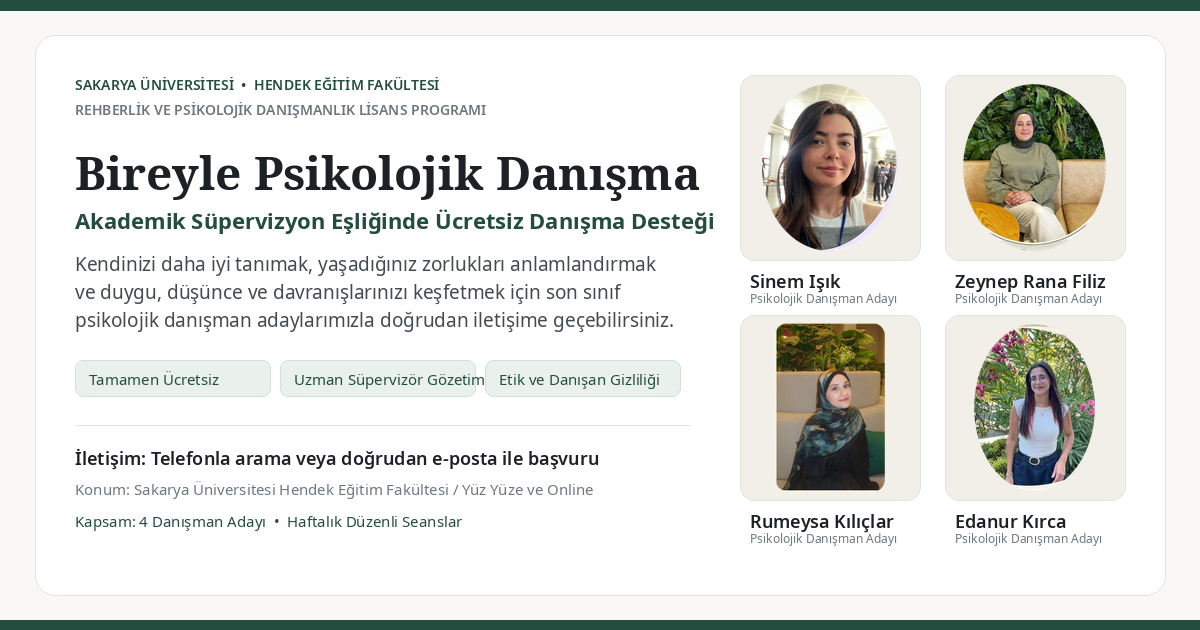
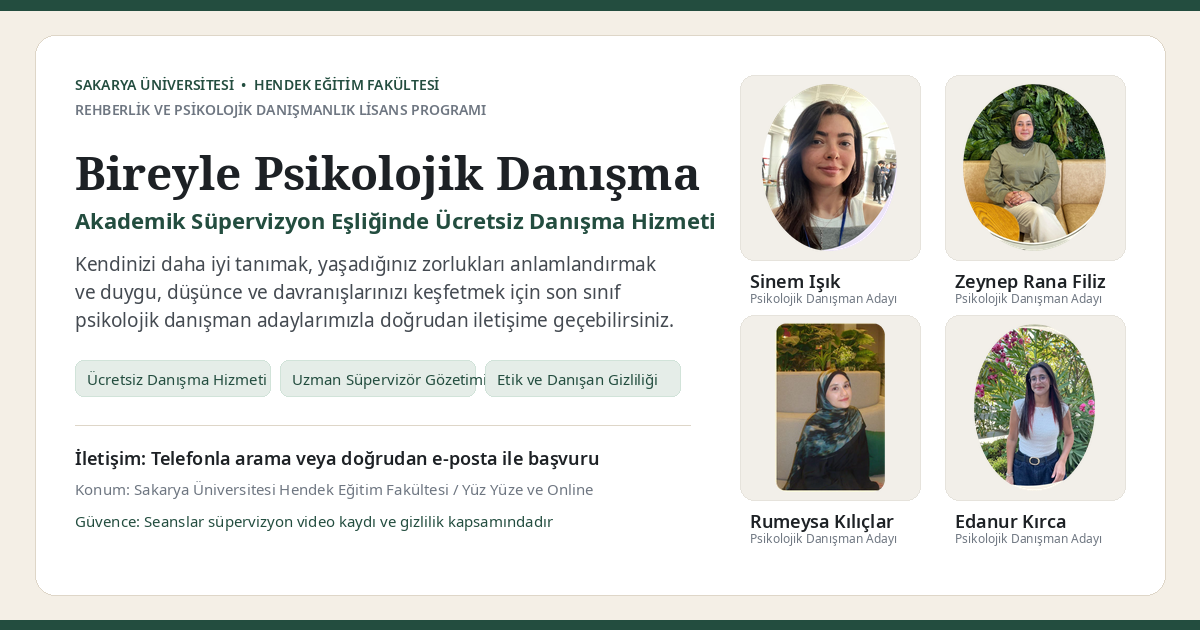
disclosure update

diff --git a/script.js b/script.js
@@ -12,7 +12,7 @@ const DEFAULT_PROFILES = [
     title: "Psikolojik Danışman Adayı",
     supervisor: "Prof. Dr. Eyüp Çelik",
     service: "Bireyle Psikolojik Danışma",
-    format: "Ücretsiz danışma desteği",
+    format: "Ücretsiz danışma hizmeti",
     description: "Kendinizi daha iyi tanımak, yaşadığınız zorlukları anlamlandırmak ve duygu, düşünce ve davranışlarınızı keşfetmek için Bireyle Psikolojik Danışma dersim kapsamında Prof. Dr. Eyüp Çelik süpervizörlüğünde vermiş olduğum ÜCRETSİZ danışma desteğinden yararlanabilirsiniz.",
     phone: "0545 350 29 60",
     email: "sinem.isik2@ogr.sakarya.edu.tr",
@@ -24,7 +24,7 @@ const DEFAULT_PROFILES = [
     title: "Psikolojik Danışman Adayı",
     supervisor: "Prof. Dr. Eyüp Çelik",
     service: "Bireyle Psikolojik Danışma",
-    format: "Ücretsiz danışma desteği",
+    format: "Ücretsiz danışma hizmeti",
     description: "Kendinizi daha iyi tanımak, yaşadığınız zorlukları anlamlandırmak ve duygu, düşünce ve davranışlarınızı farketmek için Bireyle Psikolojik Danışma dersim kapsamında Prof. Dr. Eyüp ÇELİK süpervizörlüğünde ücretsiz danışma desteği vermekteyim.",
     phone: "0551 184 67 15",
     email: "rana.filiz@ogr.sakarya.edu.tr",
@@ -36,7 +36,7 @@ const DEFAULT_PROFILES = [
     title: "Psikolojik Danışman Adayı",
     supervisor: "Doç. Dr. Betül Düşünceli",
     service: "Bireyle Psikolojik Danışma",
-    format: "Ücretsiz, yüz yüze veya online danışma desteği",
+    format: "Ücretsiz danışma hizmeti",
     description: "Bireyle Psikolojik Danışma dersi kapsamında Doç. Dr. Betül Düşünceli süpervizörlüğünde ücretsiz yüz yüze veya online psikolojik danışma hizmeti vermekteyim.",
     phone: "0551 037 27 77",
     email: "rumeysa.kiliclar@ogr.sakarya.edu.tr",
@@ -48,7 +48,7 @@ const DEFAULT_PROFILES = [
     title: "Psikolojik Danışman Adayı",
     supervisor: "Arş. Gör. Dr. Eda Biçener",
     service: "Bireyle Psikolojik Danışma",
-    format: "Ücretsiz, yüz yüze, ortalama 7 seans danışma desteği",
+    format: "Ücretsiz danışma hizmeti",
     description: "Sakarya Üniversitesi Rehberlik ve Psikolojik Danışmanlık lisans programı Bireyle Psikolojik Danışma dersi kapsamında Arş. Gör. Dr. Eda Biçener süpervizörlüğünde ücretsiz, yüz yüze, ortalama 7 seans psikolojik danışma hizmeti vermekteyim.",
     phone: "0543 787 2063",
     email: "edanur.kirca@ogr.sakarya.edu.tr",

diff --git a/style.css b/style.css
@@ -5,24 +5,24 @@
    ========================================================================== */
 
 :root {
-  /* Renk Paleti - Doğal, Dengeli, Güven Verici */
-  --bg-app: #f9f8f6;
-  --bg-card: #ffffff;
-  --bg-subtle: #f3f1ec;
-  --bg-hover: #ece9e1;
-  --bg-photo: #ece9e2;
+  /* Renk Paleti - Sıcak Doğal Bej & Keten Zemin */
+  --bg-app: #f4efe6;          /* Belirgin, sakin, sıcak doğal bej */
+  --bg-card: #ffffff;         /* Saf beyaz kartlar (bej zemin üzerinde net ve ferah) */
+  --bg-subtle: #eae3d6;       /* Kart içi hafif bej alanlar */
+  --bg-hover: #e0d8ca;
+  --bg-photo: #e9e2d5;        /* Fotoğraf kabini bej zemin */
   
-  --text-main: #1d2125;
-  --text-body: #444a51;
-  --text-muted: #6e7681;
-  --text-light: #8d95a0;
+  --text-main: #191c1f;
+  --text-body: #3c4249;
+  --text-muted: #646b75;
+  --text-light: #88909c;
   
-  --border-subtle: #e6e3dc;
-  --border-medium: #d4d0c7;
+  --border-subtle: #ded6c8;
+  --border-medium: #c7beae;
   
   --accent: #234d3f;          /* Sakin orman / adaçayı yeşili */
   --accent-hover: #19382d;
-  --accent-surface: #eaf1ed;
+  --accent-surface: #e5ede8;
   
   --radius-sm: 6px;
   --radius-md: 10px;
@@ -89,7 +89,7 @@ body {
   padding-top: 3.5rem;
   padding-bottom: 2.5rem;
   border-bottom: 1px solid var(--border-subtle);
-  background-color: #ffffff;
+  background-color: var(--bg-app);
 }
 
 .institution-meta {
@@ -538,7 +538,7 @@ body {
 
 .info-columns {
   display: grid;
-  grid-template-columns: repeat(3, 1fr);
+  grid-template-columns: repeat(2, 1fr);
   gap: 1.5rem;
 }
 
@@ -622,7 +622,7 @@ body {
 /* Alt Bilgi / Footer */
 .footer {
   border-top: 1px solid var(--border-subtle);
-  background-color: #ffffff;
+  background-color: var(--bg-app);
   padding-top: 2.5rem;
   padding-bottom: 2.5rem;
 }

diff --git a/index.html b/index.html
@@ -94,7 +94,7 @@
             </svg>
             <div>
               <strong>Etik ve Danışan Gizliliği</strong>
-              <p>Tüm paylaşımlar mesleki etik ve gizlilik ilkeleri çerçevesinde korunur.</p>
+              <p>Görüşmeler video kaydına alınacaktır; bu kayıtlar danışman ve süpervizör hariç kimseye gösterilmeyecektir.</p>
             </div>
           </div>
         </div>
@@ -167,6 +167,16 @@
                 </div>
                 <p>
                   Kişisel farkındalık kazanmak, yaşamındaki karar alma süreçlerini netleştirmek, ilişki veya uyum problemleriyle başa çıkmak isteyen yetişkin bireyler bu hizmetten faydalanabilir. Ağır psikiyatrik tanısı veya acil krize müdahale ihtiyacı olan durumlarda ilgili sağlık kurumlarına yönlendirme yapılmaktadır.
+                </p>
+              </div>
+
+              <div class="info-col">
+                <div class="info-col-header">
+                  <span class="info-num">04</span>
+                  <h4>Görüşme Kayıtları ve Gizlilik</h4>
+                </div>
+                <p>
+                  Görüşmeler video kaydına alınacaktır. Bu kayıtlar danışman ve süpervizör hariç kimseye gösterilmeyecektir. Seanslar, süpervizyon dersinin bilimsel gereklilikleri doğrultusunda ve mesleki etik gizlilik güvencesiyle korunur.
                 </p>
               </div>
             </div>

diff --git a/generate_assets.py b/generate_assets.py
@@ -72,7 +72,7 @@ generate_png_favicon(192, "favicon.png")
 # ==============================================================================
 def generate_og_image():
     W, H = 1200, 630
-    og = Image.new("RGB", (W, H), "#f9f8f6")
+    og = Image.new("RGB", (W, H), "#f4efe6")
     draw = ImageDraw.Draw(og)
     
     # Üst ve Alt Şık Çerçeve Çizgisi
@@ -80,7 +80,7 @@ def generate_og_image():
     draw.rectangle([0, H - 10, W, H], fill="#234d3f")
     
     # İç Kart Çerçevesi
-    draw.rounded_rectangle([35, 35, W - 35, H - 35], radius=20, fill="#ffffff", outline="#e6e3dc", width=1)
+    draw.rounded_rectangle([35, 35, W - 35, H - 35], radius=20, fill="#ffffff", outline="#ded6c8", width=1)
     
     # Yazı Tipleri (Noto Sans & Noto Serif - Tam Türkçe desteği)
     font_serif_bold = ImageFont.truetype("/usr/share/fonts/google-noto/NotoSerif-Bold.ttf", 46)
@@ -98,7 +98,7 @@ def generate_og_image():
     draw.text((75, 140), "Bireyle Psikolojik Danışma", fill="#1d2125", font=font_serif_bold)
     
     # 3. Alt Başlık
-    draw.text((75, 205), "Akademik Süpervizyon Eşliğinde Ücretsiz Danışma Desteği", fill="#234d3f", font=font_sans_bold)
+    draw.text((75, 205), "Akademik Süpervizyon Eşliğinde Ücretsiz Danışma Hizmeti", fill="#234d3f", font=font_sans_bold)
     
     # 4. Açıklama Paragrafı
     desc = [
@@ -113,7 +113,7 @@ def generate_og_image():
         
     # 5. Güven Rozetleri (Hafif arka planlı rozetler)
     badges = [
-        "Tamamen Ücretsiz",
+        "Ücretsiz Danışma Hizmeti",
         "Uzman Süpervizör Gözetimi",
         "Etik ve Danışan Gizliliği"
     ]
@@ -121,15 +121,15 @@ def generate_og_image():
     by = 360
     for b in badges:
         # Mini kutucuk
-        draw.rounded_rectangle([bx, by, bx + 195, by + 36], radius=8, fill="#eaf1ed", outline="#d1e3d9", width=1)
-        draw.text((bx + 14, by + 8), b, fill="#234d3f", font=font_small)
+        draw.rounded_rectangle([bx, by, bx + 195, by + 36], radius=8, fill="#e5ede8", outline="#d1e3d9", width=1)
+        draw.text((bx + 12, by + 8), b, fill="#234d3f", font=font_small)
         bx += 205
 
     # 6. İletişim & Lokasyon Bilgisi
-    draw.line([(75, 425), (690, 425)], fill="#e6e3dc", width=1)
+    draw.line([(75, 425), (690, 425)], fill="#ded6c8", width=1)
     draw.text((75, 445), "İletişim: Telefonla arama veya doğrudan e-posta ile başvuru", fill="#1d2125", font=font_sans_semibold)
     draw.text((75, 478), "Konum: Sakarya Üniversitesi Hendek Eğitim Fakültesi / Yüz Yüze ve Online", fill="#6e7681", font=font_small)
-    draw.text((75, 510), "Kapsam: 4 Danışman Adayı  •  Haftalık Düzenli Seanslar", fill="#234d3f", font=font_small)
+    draw.text((75, 510), "Güvence: Seanslar süpervizyon video kaydı ve gizlilik kapsamındadır", fill="#234d3f", font=font_small)
 
     # 7. Sağ Tarafta 4 Danışmanın Zarif Portre Kartları (2x2)
     candidates = [
